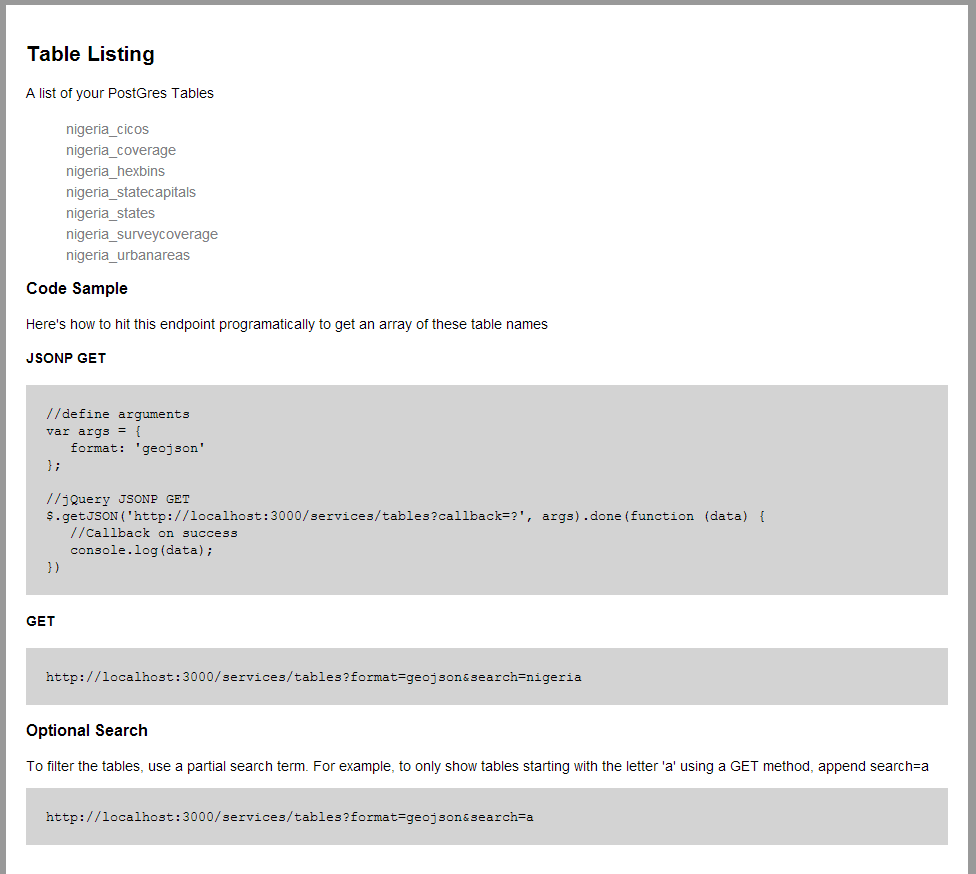
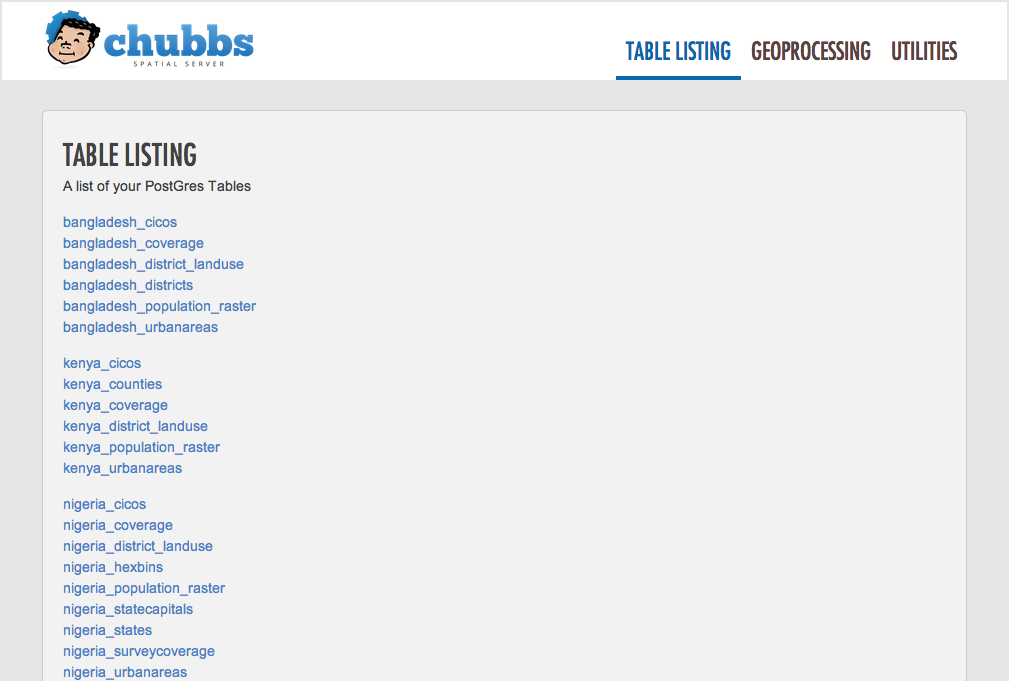
Updated screens, docs.

diff --git a/public/stylesheets/style.css b/public/stylesheets/style.css
@@ -162,6 +162,7 @@ div.description {
 pre {
   background-color: lightgray;
   padding: 20px;
+  white-space: pre-wrap;
 }
 .breadcrumbs {
   background-color: #e8e8e8;

diff --git a/README.md b/README.md
@@ -54,22 +54,37 @@ Project is structured based on http://www.bearfruit.org/2013/06/21/start-a-new-n
 
 
 ###Table/View List:
-![alt text](https://raw.github.com/spatialdev/PGRestAPI/master/docs/screens/tablelist.png "Table List Screen")
+![alt text](https://raw.github.com/spatialdev/PGRestAPI/master/docs/screens/TableList.png "Table List Screen")
 
 ###Table Details:
-![alt text](https://raw.github.com/spatialdev/PGRestAPI/master/docs/screens/tabledetail.png "Table List Screen")
+![alt text](https://raw.github.com/spatialdev/PGRestAPI/master/docs/screens/2Table_Details.png "Table List Screen")
 
 ###Query Endpoint:
-![alt text](https://raw.github.com/spatialdev/PGRestAPI/master/docs/screens/query.png "Query Endpoint")
+![alt text](https://raw.github.com/spatialdev/PGRestAPI/master/docs/screens/3TableQuery.png "Query Endpoint")
 
 ###Query Endpoint Results:
-![alt text](https://raw.github.com/spatialdev/PGRestAPI/master/docs/screens/query2.png "Query Endpoint Results")
+![alt text](https://raw.github.com/spatialdev/PGRestAPI/master/docs/screens/4TableQueryResult.png "Query Endpoint Results")
 
-###Dynamic Service Endpoint:
-![alt text](https://raw.github.com/spatialdev/PGRestAPI/master/docs/screens/dynamic.png "Dynamic Map endpoint")
+###Dynamic Map Tile Service Endpoint:
+![alt text](https://raw.github.com/spatialdev/PGRestAPI/master/docs/screens/5MapTiles.png "Dynamic Map endpoint")
 
-###WKT Preview endpoint:
-![alt text](https://raw.github.com/spatialdev/PGRestAPI/master/docs/screens/wktpreview.png "WKT Preview")
+###Dynamic Vector Tile Endpoint:
+![alt text](https://raw.github.com/spatialdev/PGRestAPI/master/docs/screens/6VectorTiles.png "Dynamic Vector Tile endpoint")
+
+###Geoprocessing Operations:
+![alt text](https://raw.github.com/spatialdev/PGRestAPI/master/docs/screens/7GeoprocessingList.png "List of operations")
+
+###Geoprocessing Operation:
+![alt text](https://raw.github.com/spatialdev/PGRestAPI/master/docs/screens/8GeoprocessingEndpoint.png "Single operation")
+
+###Utililties - WKT Preview endpoint:
+![alt text](https://raw.github.com/spatialdev/PGRestAPI/master/docs/screens/9WKTPreview.png "WKT Preview")
+
+###Raster Operations List:
+![alt text](https://raw.github.com/spatialdev/PGRestAPI/master/docs/screens/10RasterOperations.png "Raster Operation List")
 
 ###Raster Operations - Zonal Statistics:
 ![alt text](https://raw.github.com/spatialdev/PGRestAPI/master/docs/screens/raster.png "Raster Zonal Statistics")
+
+###Tile Rendering Stats (/admin):
+![alt text](https://raw.github.com/spatialdev/PGRestAPI/master/docs/screens/14Admin.png "Tile Stats")
